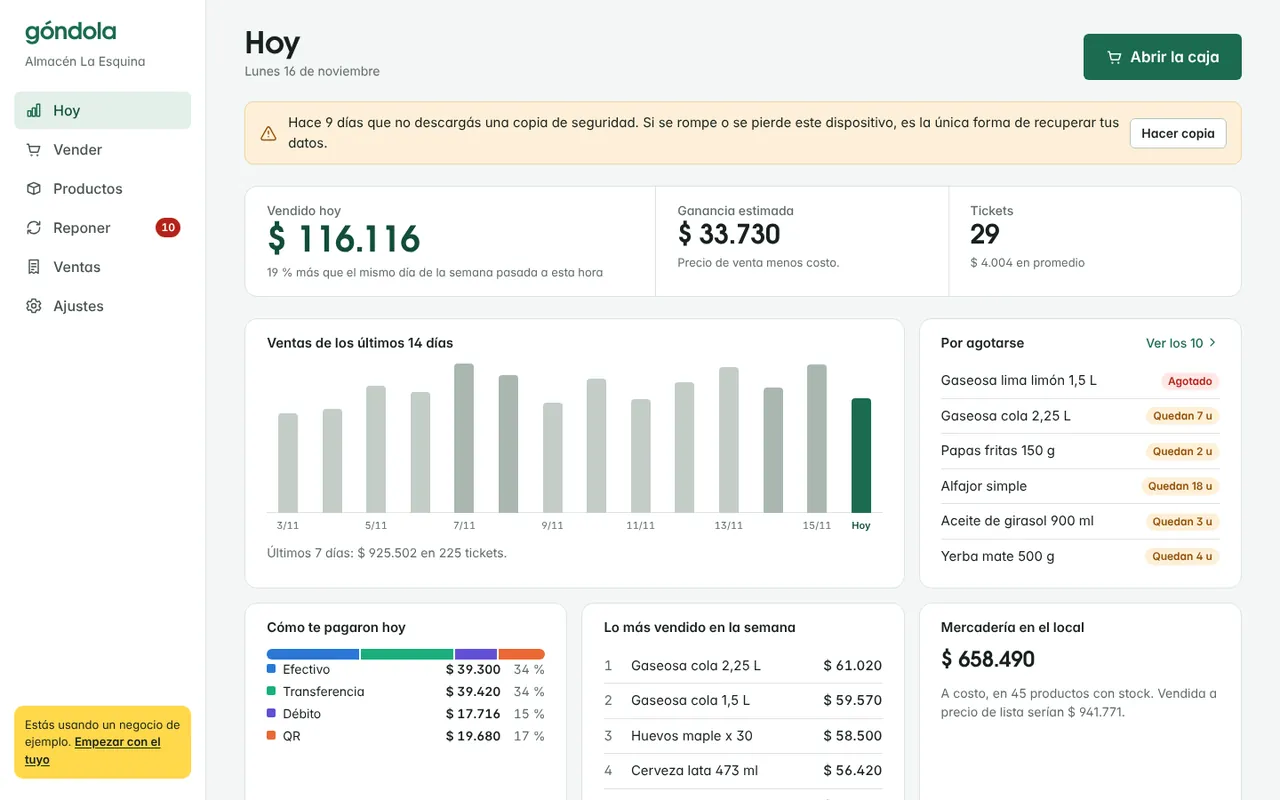
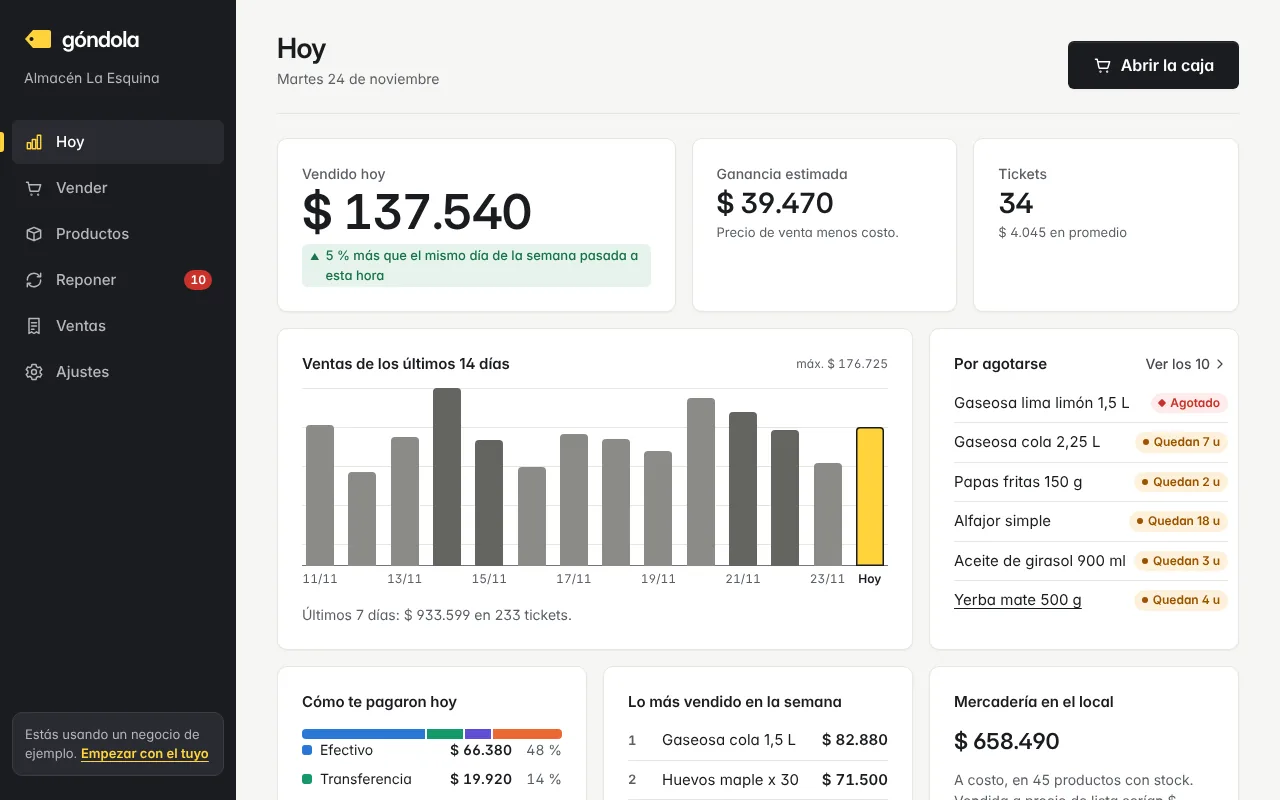
Góndola: captura y descripción del rediseño Mostrador

diff --git a/index.html b/index.html
@@ -131,7 +131,7 @@
         <article class="proyecto revelar">
           <a class="proyecto__captura" href="https://fran951xd.github.io/GONDOLA/" target="_blank" rel="noopener" aria-label="Abrir la demo de Góndola">
             <span class="ventana" aria-hidden="true"><i></i><i></i><i></i><b>fran951xd.github.io/GONDOLA</b></span>
-            <img src="img/gondola.webp" width="1280" height="800" loading="lazy" alt="Góndola: panel del día de un almacén con ventas y productos más vendidos">
+            <img src="img/gondola.webp" width="1280" height="800" loading="lazy" alt="Góndola: panel del día de un almacén con lo vendido hoy, ventas de los últimos 14 días y productos por agotarse">
           </a>
           <div class="proyecto__texto">
             <p class="proyecto__tipo"><span>03</span>Comercio · Gestión de stock</p>
@@ -141,8 +141,9 @@
               <li><strong>Funciona sin internet</strong>: los datos viven en el dispositivo y se instala como app.</li>
               <li>Cada venta guarda el ticket y descuenta el stock en una sola transacción: nada queda a medias.</li>
               <li>Sugiere qué reponer según el ritmo de venta y arma el pedido para mandar por WhatsApp.</li>
+              <li>Diseño propio pensado para el mostrador: montos legibles de un vistazo, controles cómodos en el celular y uso completo con teclado.</li>
             </ul>
-            <p class="chips"><span>JavaScript</span><span>IndexedDB</span><span>Service worker</span><span>PWA</span></p>
+            <p class="chips"><span>JavaScript</span><span>IndexedDB</span><span>Service worker</span><span>PWA</span><span>Accesibilidad</span></p>
             <div class="proyecto__acciones">
               <a class="boton boton--oscuro" href="https://fran951xd.github.io/GONDOLA/" target="_blank" rel="noopener">Abrir demo <span aria-hidden="true">↗</span></a>
               <a class="boton boton--borde" href="https://github.com/Fran951xD/GONDOLA" target="_blank" rel="noopener">Ver código</a>
